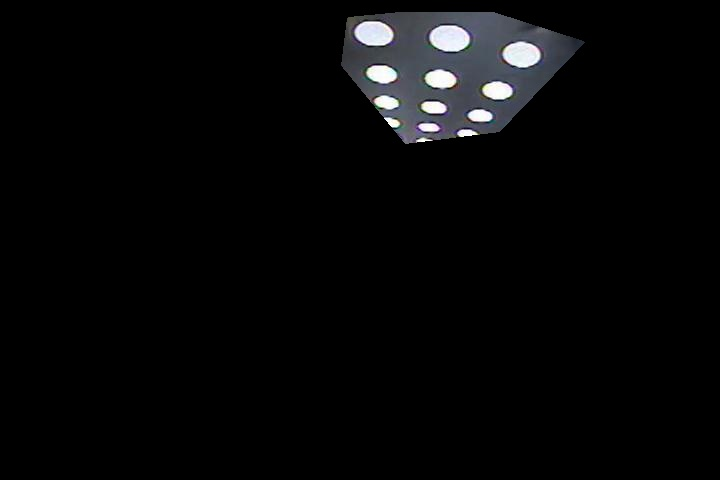
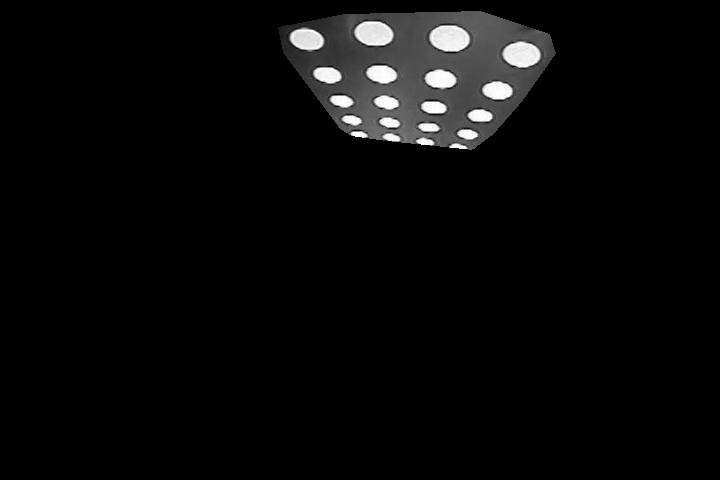
go home

diff --git a/InternalParamCalib/FindCalibBoardROI.cpp b/InternalParamCalib/FindCalibBoardROI.cpp
@@ -58,7 +58,7 @@ void findCalibROI::onMouse( int event, int x, int y, int, void* p)
 			cv::convexHull(self->m_vPointList, self->m_vHullPointList, true);
 			cv::line(self->m_mScribbleImg, self->m_pPrePt,
 				self->m_pFirstPt, CV_RGB(255,0,0), 2, CV_AA);
-			cv::fillConvexPoly(self->m_mScribbleMask, self->m_vHullPointList, 255, CV_AA);
+			cv::fillConvexPoly(self->m_mScribbleMask, self->m_vHullPointList, 1, CV_AA);
 
 			self->m_bRButtonDown = true;
 			self->m_vPointList.clear();
@@ -119,7 +119,7 @@ int findCalibROI::init(const std::string& imgFileName)
 	m_vHullPointList.clear();
 	m_vCartCoord.clear();
 
-	m_mInputImg = cv::imread(m_sImgFileName, CV_LOAD_IMAGE_COLOR);
+	m_mInputImg = cv::imread(m_sImgFileName, CV_LOAD_IMAGE_GRAYSCALE);
 	if(!m_mInputImg.data )                              
 	{
 		std::cout <<  "Could not open or find the image: " << m_sImgFileName << std::endl ;
@@ -195,4 +195,15 @@ void findCalibROI::nextImage()
 	{
 		std::cout <<  "could not initialize" << std::endl ;
 	}
+}
+
+const cv::Mat& findCalibROI::findBlobs()
+{
+	m_mBlobImg.create(2, m_mInputImg.size, m_mInputImg.type());
+	m_mBlobImg = 0;
+	
+	cv::threshold(m_mOutputImg, m_mBlobImg, 255, 255, cv::THRESH_BINARY|cv::THRESH_OTSU);
+	cv::imwrite("binary.jpg", m_mBlobImg);
+
+	return m_mBlobImg;
 }

diff --git a/InternalParamCalib/FindCalibBoardROI.h b/InternalParamCalib/FindCalibBoardROI.h
@@ -1,12 +1,15 @@
 #pragma once
 
-#ifndef FINDCALIBBOARDROI
-#define FINDCALIBBOARDROI
+#ifndef FINDCALIBBOARDROI_H
+#define FINDCALIBBOARDROI_H
 
 #include <opencv2/core/core.hpp>        // Basic OpenCV structures (cv::Mat, Scalar)
 #include <opencv2/highgui/highgui.hpp>  // OpenCV window I/O
 #include <opencv2/imgproc/imgproc.hpp> 
 
+/************************************************************************/
+/* this class is used to choose the ROI of the input image with mouse.  */
+/************************************************************************/
 class findCalibROI
 {
 public:
@@ -17,6 +20,7 @@ public:
 	void saveROIImage();
 	void reset();
 	void nextImage();
+	const cv::Mat& findBlobs();
 	const std::vector<cv::Point>& getCartCoord() const
 	{
 		return m_vCartCoord;
@@ -32,6 +36,7 @@ private:
 private:
 	cv::Mat m_mInputImg, m_mScribbleImg, m_mOutputImg;	//images
 	cv::Mat m_mScribbleMask;	//mask
+	cv::Mat m_mBlobImg;			//blobs
 	int m_iscribbleRadius;
 
 	bool m_bRButtonDown;

diff --git a/InternalParamCalib/FindBlobs.h b/InternalParamCalib/FindBlobs.h
@@ -1,0 +1,21 @@
+#pragma once
+
+#ifndef FINDBLOBS_H
+#define FINDBLOBS_H
+
+#include <opencv2/core/core.hpp>
+#include <opencv2/highgui/highgui.hpp>
+#include <opencv2/imgproc/imgproc.hpp>
+
+class findBlobs
+{
+public:
+	findBlobs();
+	virtual ~findBlobs();
+
+	int init();
+private:
+};
+
+
+#endif

diff --git a/InternalParamCalib/main.cpp b/InternalParamCalib/main.cpp
@@ -31,6 +31,7 @@ int main(int argc, char *argv[])
 		case 's':
 			{
 				findROI.saveROIImage();
+				findROI.findBlobs();
 				//test
 				const std::vector<cv::Point> &coord = findROI.getCartCoord();
 				if (coord.size() == 3)
